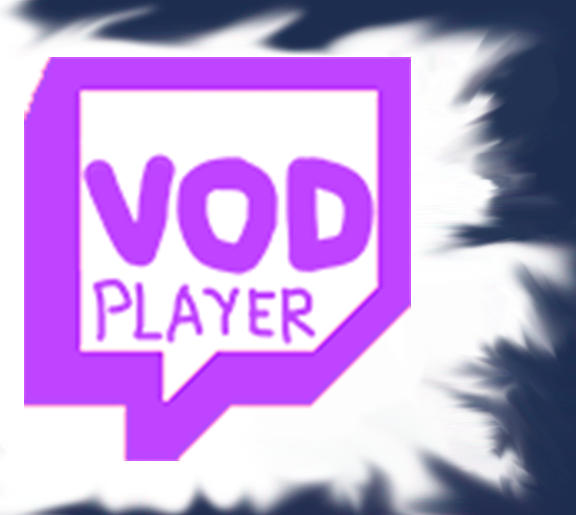
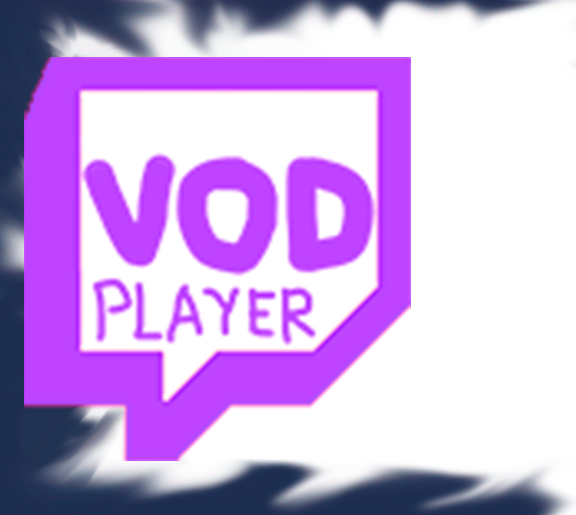
Add TwitchVODplayer

diff --git a/extensions/index.html b/extensions/index.html
@@ -108,7 +108,7 @@
                 </section>
                 <section>
                     <a href="twitch_vod_player/" class="image">
-                        <img src="../images/extensions/twitch_vod_player.jpg" alt="" data-position="top center" />
+                        <img src="../images/extensions/twitch_vod_player.png" alt="" data-position="top center" />
                     </a>
                     <div class="content">
                         <div class="inner">
